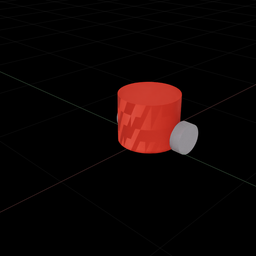
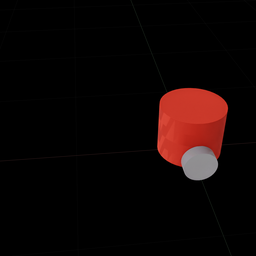
Working stable multiagent simulation.

diff --git a/isaac-multiagent-halton.py b/isaac-multiagent-halton.py
@@ -17,7 +17,7 @@ import os
 
 import rclpy
 from rclpy.node import Node
-from interfaces_hmm_sim.msg import AgentPoses, Status
+from interfaces_hmm_sim.msg import AgentPoses, Status, PathPlan, ReplanStatus, AgentGoTo
 from ltl_automaton_msgs.msg import TransitionSystemState, TransitionSystemStateStamped, LTLPlan, RelayResponse
 
 class NumAgentsAction(argparse.Action):
@@ -243,6 +243,11 @@ if __name__ == "__main__":
         agent_node["suffix_actions"] = msg.action_sequence
         agent_node["node"].get_logger().info(f"Received suffix plan actions")
 
+    def next_step_callback(msg, agent_node):
+        agent_node["next_step"] = msg.next_step
+        agent_node["next_flag"] = msg.next_flag
+        agent_node["node"].get_logger().info(f"Received next step command")
+
     # Create agent nodes
     def create_agent_nodes(num_agents):
         agent_nodes = []
@@ -272,6 +277,8 @@ if __name__ == "__main__":
                 "new_suffix_actions": [],
                 "prefix_actions": [],
                 "suffix_actions": [],
+                "next_step": [],
+                "next_flag": 'i',
             }
 
             # Closures to bind agent-specific data
@@ -295,9 +302,17 @@ if __name__ == "__main__":
                 LTLPlan, f"{namespace}/suffix_plan", suffix_callback, 10
             )
 
+            next_step_subscriber = node.create_subscription(
+                AgentGoTo,
+                f"{namespace}/agent_next",
+                lambda msg, agent_node=agent_node: next_step_callback(msg, agent_node),
+                10
+            )
+
             agent_node["relay_response_subscriber"] = relay_response_subscriber
             agent_node["prefix_plan_subscriber"] = prefix_plan_subscriber
             agent_node["suffix_plan_subscriber"] = suffix_plan_subscriber
+            agent_node["next_step_subscriber"] = next_step_subscriber
 
             agent_nodes.append(agent_node)
 
@@ -325,6 +340,12 @@ if __name__ == "__main__":
                 if label:
                     labelled_points[label] = (x, y)
 
+    x_max = np.ceil(max(point[0] for point in halton_points))
+    y_max = np.ceil(max(point[1] for point in halton_points))
+
+    x_offset = x_max / 2
+    y_offset = y_max / 2
+
     # print("Parsed Halton Points:", halton_points)
     # print("Label-to-Point Mapping:", label_to_point)
 
@@ -337,7 +358,7 @@ if __name__ == "__main__":
     ##### Drone Controller Parameters #####
 
     ## Simple PID Gains
-    kp = 6
+    kp = 9
     kp_z = 3
     kd = 2
     kd_z = 0.5
@@ -358,25 +379,28 @@ if __name__ == "__main__":
     dc=_dynamic_control.acquire_dynamic_control_interface()
 
     ## Create drone object
-    quad_list = []
+    robot_list = []
     finalgoal_check = []
     init_start = []
     wait_count = []
-    quad_count = 1
+    stay_flag = []
+    robot_count = 1
     for agent in agents:
-        drone_new = drone.Drone(agent["id"],agent["path"],PID,zPID)
-        # drone_new.setPath(x_grid_list[quad_count-1],y_grid_list[quad_count-1],dz_list[quad_count-1],key)
+        drone_new = drone.Drone(agent["id"],agent["path"],agent["type"],PID,zPID,environment_scale,x_offset)
+        # drone_new.setPath(x_grid_list[robot_count-1],y_grid_list[robot_count-1],dz_list[robot_count-1],key)
+        drone_new.setNext(agent["initial_position"][0], agent["initial_position"][1], 0.0, 'i')
 
-        quad_new = {
+        robot_new = {
             "info": drone_new,
             "prim": Articulation(drone_new.path, name=drone_new.name),
             "rigidbody": UsdPhysics.RigidBodyAPI.Get(stage, drone_new.path)
         }
         finalgoal_check.append(False)
         init_start.append(False)
-        quad_list.append(quad_new)
+        robot_list.append(robot_new)
         wait_count.append(wait_val)
-        quad_count += 1
+        stay_flag.append(False)
+        robot_count += 1
 
     ####################################################################################################
     ##### Execution #####
@@ -392,14 +416,120 @@ if __name__ == "__main__":
         input = carb.input.acquire_input_interface()
         input.subscribe_to_keyboard_events(appwindow.get_keyboard(), keyboard_event)
         
-        for agent in agent_nodes:
-            drone_status = Status()
-            drone_status.agent = agent["name"]
-            drone_status.replan_received = True
-            agent["status_publisher"].publish(drone_status)
+        if start:
+            if not init_paths:
+                for agent in agent_nodes:
+                    num = agent["number"]
+                    if agent["next_flag"] == 'i':
+                        init_status = Status()
+                        init_status.agent = agent["name"]
+                        init_status.start = True
+                        agent["status_publisher"].publish(init_status)
+                    else:
+                        init_start[num] = True
+                        init_x = agent["next_step"][0]
+                        init_y = agent["next_step"][1]
+                        # print(f"Agent {num} - Type: {agents[num]['type']})")
+                        if agents[num]["type"] == "quad":
+                            init_z = 3.0
+                        else:
+                            init_z = 0.0
+                        init_flag = agent["next_flag"]
+                        robot_list[num]["info"].setNext(init_x, init_y, init_z, init_flag)
+
+
+        if (np.all(np.array(init_start))):
+            init_paths = True   
         # print(args.world)
         # print(args.num_quads)
         # print(args.num_turtle)
+
+        if start and init_paths:
+            for agent in agent_nodes:
+                num = agent["number"]
+                next_x = agent["next_step"][0]
+                next_y = agent["next_step"][1]
+                next_flag = agent["next_flag"]
+                # print(f"Agent {num} - Type: {agents[num]['type']})")
+                if agents[num]["type"] == "quad":
+                    if next_flag == 'g':
+                        next_z = 3.0
+                    elif next_flag == 'l' or next_flag == 'u':
+                        next_z = 2.0
+                    elif next_flag == 's':
+                        next_z = 1.0
+                    elif next_flag == 'b':
+                        next_z = 0.0
+                robot_list[num]["info"].setNext(next_x, next_y, next_z, next_flag)
+                robot_obj = robot_list[num]["info"]
+
+                robot_status = Status()
+
+                object = dc.get_rigid_body(robot_obj.path)
+                object_pose=dc.get_rigid_body_pose(object)
+                global_pose,global_orient = robot_list[num]["prim"].get_world_pose()
+                robot_rb = robot_list[num]["rigidbody"]
+
+                xpose = global_pose[0]
+                ypose = global_pose[1]
+                zpose = global_pose[2]
+
+                robot_obj.pose = [xpose,ypose,zpose]
+                pose_prev = robot_obj.pose_prev
+                del_prev = robot_obj.del_prev
+
+                xgoal = robot_obj.xgoal
+                ygoal = robot_obj.ygoal
+                zgoal = robot_obj.zgoal
+                flag = robot_obj.flag
+
+                # print(f"Agent {num} - Current Pose: {robot_obj.pose}, Goal: ({xgoal}, {ygoal}, {zgoal}), Flag: {flag}")
+                if robot_rb and not stay_flag[num]:
+                    delx = xgoal - xpose
+                    dely = ygoal - ypose
+                    delz = zgoal - zpose
+
+                    kp_mod = kp
+                    if delz > 0.5:
+                        kp_mod = 0.25*kp
+                    elif delz < -0.5 and (np.abs(delx) < 0.5 and np.abs(dely) < 0.5):
+                        kp_mod = 0.25*kp
+                    vx = kp_mod*delx + kd*(delx - del_prev[0])
+                    vy = kp_mod*dely + kd*(dely - del_prev[1])
+                    vz = kp_z*(delz) + kd_z*(delz - del_prev[2])
+                    v_curr = [vx,vy,vz]
+
+                    if np.abs(delx) <= 0.5 and np.abs(dely) <= 0.5 and np.abs(delz) <= 0.05:
+                        print(f"Agent {num} - Flag:  {flag}")
+                        if flag == 's' and not stay_flag[num]:
+                            stay_flag[num] = True
+                            robot_status.agent = agent["name"]
+                            robot_status.arrived = True
+                            agent["status_publisher"].publish(robot_status)
+                        elif flag == 'b' and not stay_flag[num]:
+                            stay_flag[num] = True
+                            robot_status.agent = agent["name"]
+                            robot_status.arrived = True
+                            agent["status_publisher"].publish(robot_status)
+                        elif flag != 's' or flag != 'b':
+                            robot_status.agent = agent["name"]
+                            robot_status.arrived = True
+                            agent["status_publisher"].publish(robot_status)
+
+                    vel = Gf.Vec3f(vx,vy,vz)
+                    robot_rb.GetVelocityAttr().Set(vel)
+                    if np.all(np.array(finalgoal_check)):
+                        print("All goals reach!")
+                        start = not start
+                else:
+                    finalgoal_check[num] = True
+
+                    vel = Gf.Vec3f(0,0,0)
+                    robot_rb.GetVelocityAttr().Set(vel)
+        else:
+            vel = Gf.Vec3f(0,0,0)
+            for robot in robot_list:
+                robot["rigidbody"].GetVelocityAttr().Set(vel)
 
         try:
             # Simulate the world

diff --git a/drone.py b/drone.py
@@ -2,13 +2,19 @@ import numpy as np
 
 class Drone:
     def __init__(self, name: str, 
-                 path: str, 
+                 path: str,
+                 agent_type: str, 
                  PID: list = [1,0,0], 
                  zPID: list = [1,0,0],
+                 scale: float = 1.0,
+                 offset: float = 0.0,
                  state: int = 0) -> None:
                  
         self.name = name
         self.path = path
+        self.scale = scale
+        self.offset = offset
+        self.agent_type = agent_type
 
         # PID
         self.PID = PID
@@ -23,32 +29,26 @@ class Drone:
         self.del_prev = [0,0,0]
         self.pose = [0,0,0]
 
+        self.xgoal = 0
+        self.ygoal = 0 
+        self.zgoal = 0
+        self.flag = 'i'
+        self.angle = 0
+
         self.dind = 0
 
         # Path planning input type
         self.state = state
         self.dind = 0
-        self.dy = []
-        self.dx = []
-        self.dz = []
-        self.flags = []
-
-        self.y_grid = []
-        self.x_grid = []
-
-    def setPath(self, x_grid: list, y_grid: list, dz:list, flags:list, key) -> None:
-        self.y_grid = y_grid
-        self.x_grid = x_grid
-
-        self.dy = [key[i][0] for i in y_grid]
-        self.dx = [key[i][1] for i in x_grid]
-        self.dz = dz
-        self.flags = flags
     
-    def getPath(self):
-        x_values = self.x_grid
-        y_values = self.y_grid
-        return [[x, y] for x, y in zip(x_values, y_values)]
+    def setNext(self, x:float, y:float, z:float, flag:str) -> None:
+        self.xgoal = (x-self.offset)*self.scale
+        self.ygoal = (y-self.offset)*self.scale
+        self.zgoal = 0.0 if self.agent_type == "turtle" else z
+        self.flag = flag
+
+    def getNext(self) -> list:
+        return [self.xgoal, self.ygoal, self.zgoal, self.flag]
 
     def setPID(self, PID: list, zPID: list) -> None:
         self.PID = PID
